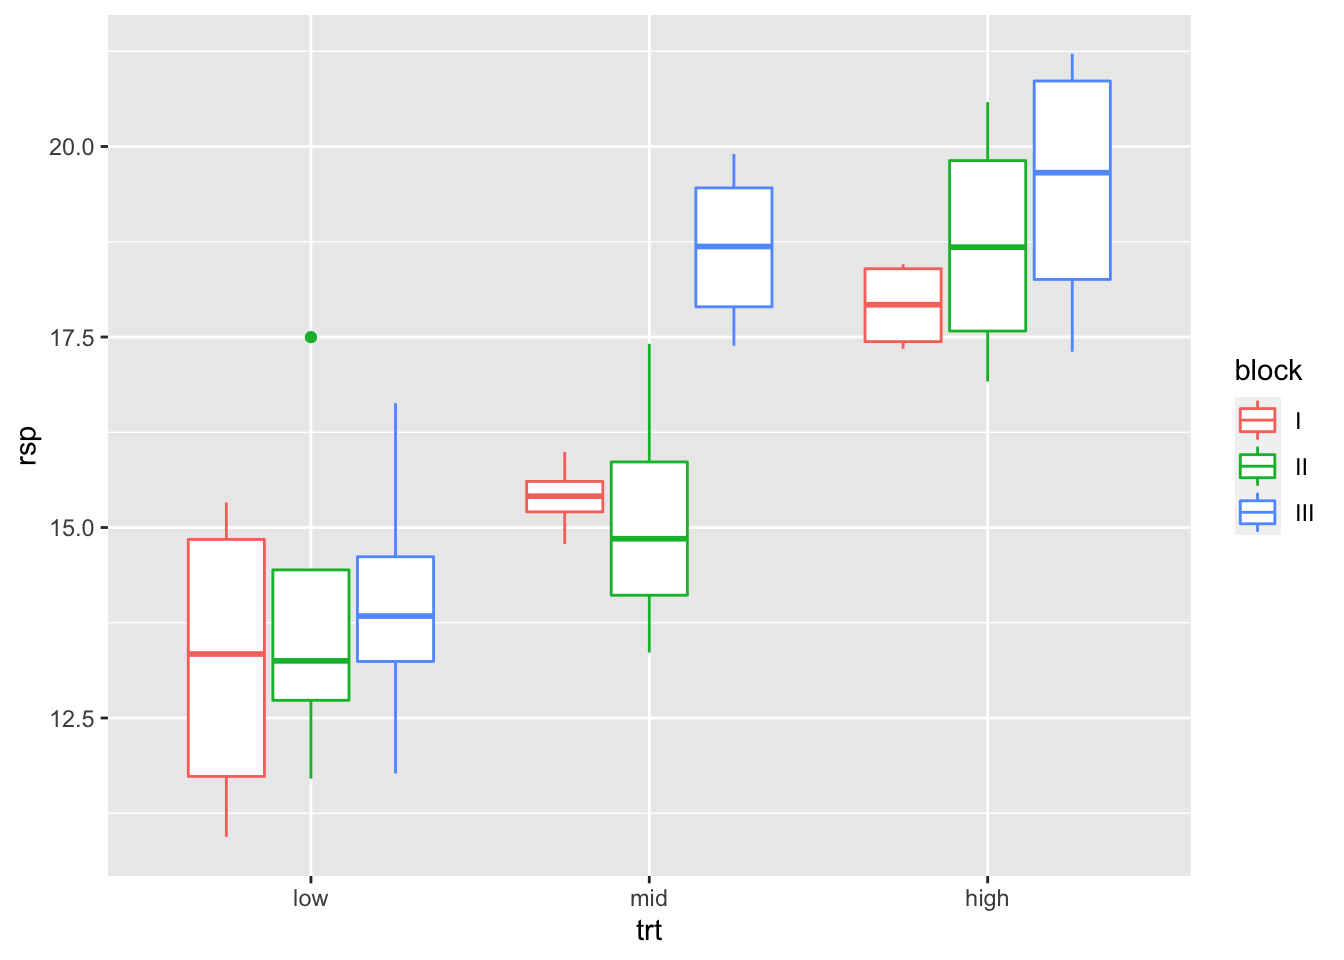
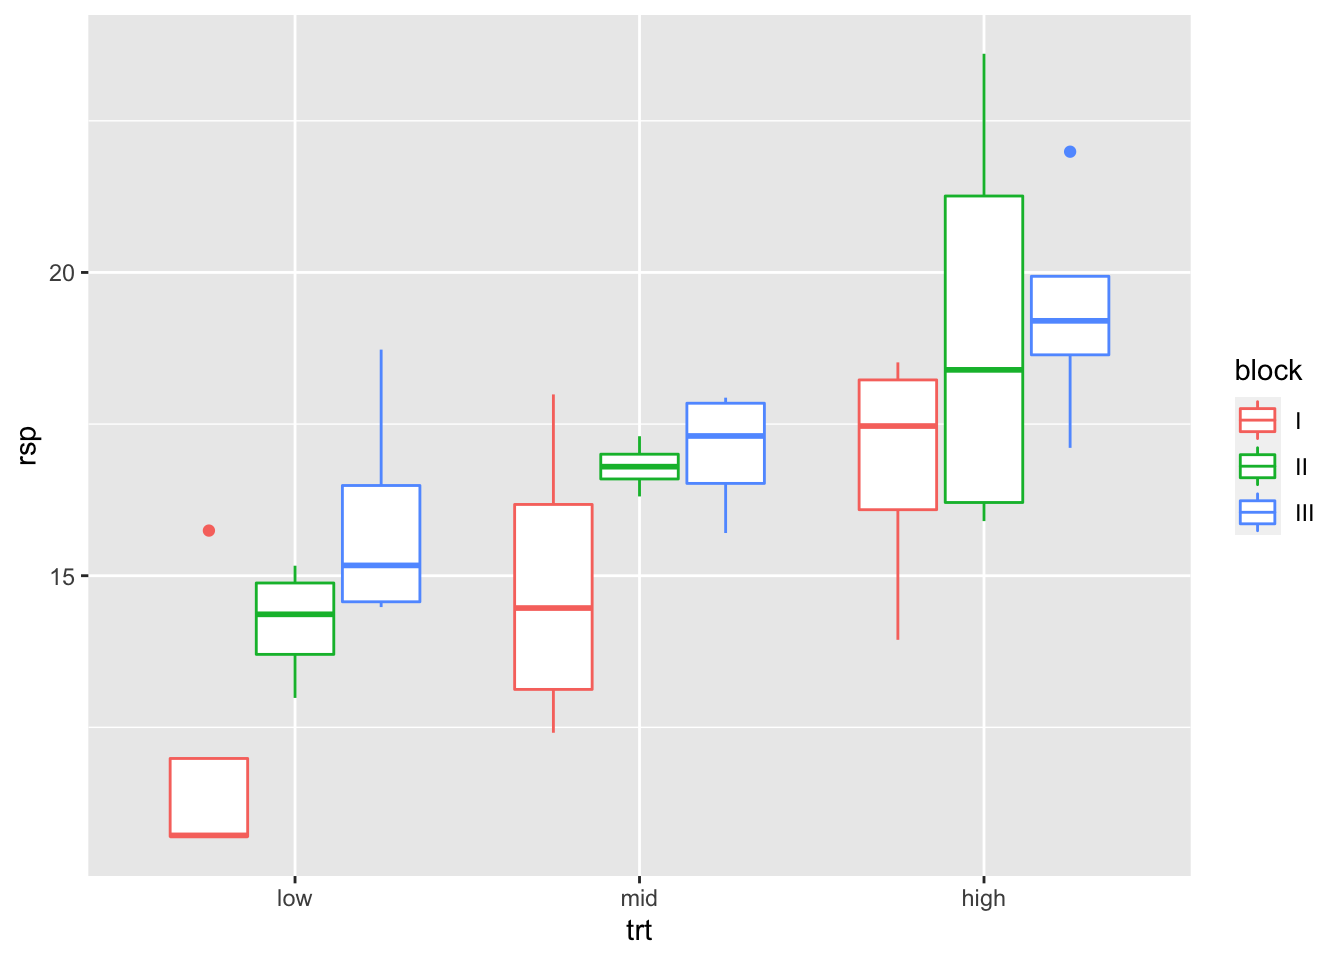
added information

diff --git a/docs/app-example-analysis.html b/docs/app-example-analysis.html
@@ -538,7 +538,7 @@ code span.wa { color: #60a0b0; font-weight: bold; font-style: italic; } /* Warni
 </header><div class="cell">
 
 </div>
-<p><em>Version vom October 31, 2022 um 18:43:56</em></p>
+<p><em>Version vom October 31, 2022 um 18:48:19</em></p>
 <section id="genutzte-r-pakete-für-das-kapitel" class="level2" data-number="A.1"><h2 data-number="A.1" class="anchored" data-anchor-id="genutzte-r-pakete-für-das-kapitel">
 <span class="header-section-number">A.1</span> Genutzte R Pakete für das Kapitel</h2>
 <p>Wir wollen folgende R Pakete in diesem Kapitel nutzen.</p>
@@ -578,7 +578,8 @@ code span.wa { color: #60a0b0; font-weight: bold; font-style: italic; } /* Warni
 <span>  <span class="fu">facet_wrap</span><span class="op">(</span><span class="op">~</span> <span class="va">temp</span>, ncol <span class="op">=</span> <span class="fl">2</span><span class="op">)</span> <span class="op">+</span> </span>
 <span>  <span class="fu">scale_fill_brewer</span><span class="op">(</span>palette <span class="op">=</span> <span class="st">"Spectral"</span>, direction <span class="op">=</span> <span class="op">-</span><span class="fl">1</span><span class="op">)</span> <span class="op">+</span></span>
 <span>  <span class="fu">scale_x_continuous</span><span class="op">(</span>breaks <span class="op">=</span> <span class="fl">1</span><span class="op">:</span><span class="fl">12</span><span class="op">)</span> <span class="op">+</span></span>
-<span>  <span class="fu">geom_vline</span><span class="op">(</span>xintercept <span class="op">=</span> <span class="fl">1</span><span class="op">:</span><span class="fl">12</span>, alpha <span class="op">=</span> <span class="fl">0.9</span>, linetype <span class="op">=</span> <span class="fl">2</span><span class="op">)</span></span></code><button title="In die Zwischenablage kopieren" class="code-copy-button"><i class="bi"></i></button></pre></div>
+<span>  <span class="fu">geom_vline</span><span class="op">(</span>xintercept <span class="op">=</span> <span class="fl">1</span><span class="op">:</span><span class="fl">12</span>, alpha <span class="op">=</span> <span class="fl">0.9</span>, linetype <span class="op">=</span> <span class="fl">2</span><span class="op">)</span> <span class="op">+</span></span>
+<span>  <span class="fu">geom_hline</span><span class="op">(</span>yintercept <span class="op">=</span> <span class="fu"><a href="https://rdrr.io/r/base/c.html">c</a></span><span class="op">(</span><span class="fl">5</span>, <span class="fl">10</span>, <span class="fl">15</span>, <span class="fl">20</span>, <span class="fl">25</span>, <span class="fl">30</span><span class="op">)</span>, alpha <span class="op">=</span> <span class="fl">0.9</span>, linetype <span class="op">=</span> <span class="fl">2</span><span class="op">)</span></span></code><button title="In die Zwischenablage kopieren" class="code-copy-button"><i class="bi"></i></button></pre></div>
 <div class="cell-output-display column-page">
 <div id="fig-weather" class="quarto-figure quarto-figure-center anchored">
 <figure class="figure"><p><img src="app-example-analysis_files/figure-html/fig-weather-1.png" class="img-fluid figure-img" width="864"></p>
@@ -666,217 +667,217 @@ X-squared = 13.8689, df = 3, p-value = 0.0030892</code></pre>
 <td style="text-align: center;">low</td>
 <td style="text-align: center;">I</td>
 <td style="text-align: center;">1</td>
-<td style="text-align: center;">14.68</td>
+<td style="text-align: center;">10.69</td>
 </tr>
 <tr class="even">
 <td style="text-align: center;">low</td>
 <td style="text-align: center;">I</td>
 <td style="text-align: center;">2</td>
-<td style="text-align: center;">12.00</td>
+<td style="text-align: center;">10.73</td>
 </tr>
 <tr class="odd">
 <td style="text-align: center;">low</td>
 <td style="text-align: center;">I</td>
 <td style="text-align: center;">3</td>
-<td style="text-align: center;">15.33</td>
+<td style="text-align: center;">15.74</td>
 </tr>
 <tr class="even">
 <td style="text-align: center;">low</td>
 <td style="text-align: center;">I</td>
 <td style="text-align: center;">4</td>
-<td style="text-align: center;">10.94</td>
+<td style="text-align: center;">10.70</td>
 </tr>
 <tr class="odd">
 <td style="text-align: center;">low</td>
 <td style="text-align: center;">II</td>
 <td style="text-align: center;">1</td>
-<td style="text-align: center;">13.07</td>
+<td style="text-align: center;">14.78</td>
 </tr>
 <tr class="even">
 <td style="text-align: center;">low</td>
 <td style="text-align: center;">II</td>
 <td style="text-align: center;">2</td>
-<td style="text-align: center;">17.50</td>
+<td style="text-align: center;">12.99</td>
 </tr>
 <tr class="odd">
 <td style="text-align: center;">low</td>
 <td style="text-align: center;">II</td>
-<td style="text-align: center;">3</td>
-<td style="text-align: center;">13.43</td>
-</tr>
-<tr class="even">
-<td style="text-align: center;">low</td>
-<td style="text-align: center;">II</td>
-<td style="text-align: center;">4</td>
-<td style="text-align: center;">11.71</td>
-</tr>
-<tr class="odd">
-<td style="text-align: center;">low</td>
-<td style="text-align: center;">III</td>
-<td style="text-align: center;">1</td>
-<td style="text-align: center;">11.77</td>
-</tr>
-<tr class="even">
-<td style="text-align: center;">low</td>
-<td style="text-align: center;">III</td>
-<td style="text-align: center;">2</td>
-<td style="text-align: center;">16.63</td>
-</tr>
-<tr class="odd">
-<td style="text-align: center;">low</td>
-<td style="text-align: center;">III</td>
 <td style="text-align: center;">3</td>
 <td style="text-align: center;">13.94</td>
 </tr>
 <tr class="even">
 <td style="text-align: center;">low</td>
+<td style="text-align: center;">II</td>
+<td style="text-align: center;">4</td>
+<td style="text-align: center;">15.16</td>
+</tr>
+<tr class="odd">
+<td style="text-align: center;">low</td>
+<td style="text-align: center;">III</td>
+<td style="text-align: center;">1</td>
+<td style="text-align: center;">15.74</td>
+</tr>
+<tr class="even">
+<td style="text-align: center;">low</td>
+<td style="text-align: center;">III</td>
+<td style="text-align: center;">2</td>
+<td style="text-align: center;">14.48</td>
+</tr>
+<tr class="odd">
+<td style="text-align: center;">low</td>
+<td style="text-align: center;">III</td>
+<td style="text-align: center;">3</td>
+<td style="text-align: center;">14.60</td>
+</tr>
+<tr class="even">
+<td style="text-align: center;">low</td>
 <td style="text-align: center;">III</td>
 <td style="text-align: center;">4</td>
-<td style="text-align: center;">13.73</td>
+<td style="text-align: center;">18.73</td>
 </tr>
 <tr class="odd">
 <td style="text-align: center;">mid</td>
 <td style="text-align: center;">I</td>
 <td style="text-align: center;">1</td>
-<td style="text-align: center;">14.78</td>
+<td style="text-align: center;">12.41</td>
 </tr>
 <tr class="even">
 <td style="text-align: center;">mid</td>
 <td style="text-align: center;">I</td>
 <td style="text-align: center;">2</td>
-<td style="text-align: center;">15.48</td>
+<td style="text-align: center;">17.99</td>
 </tr>
 <tr class="odd">
 <td style="text-align: center;">mid</td>
 <td style="text-align: center;">I</td>
 <td style="text-align: center;">3</td>
-<td style="text-align: center;">15.35</td>
+<td style="text-align: center;">15.57</td>
 </tr>
 <tr class="even">
 <td style="text-align: center;">mid</td>
 <td style="text-align: center;">I</td>
 <td style="text-align: center;">4</td>
-<td style="text-align: center;">15.99</td>
-</tr>
-<tr class="odd">
-<td style="text-align: center;">mid</td>
-<td style="text-align: center;">II</td>
-<td style="text-align: center;">1</td>
 <td style="text-align: center;">13.36</td>
 </tr>
+<tr class="odd">
+<td style="text-align: center;">mid</td>
+<td style="text-align: center;">II</td>
+<td style="text-align: center;">1</td>
+<td style="text-align: center;">17.30</td>
+</tr>
 <tr class="even">
 <td style="text-align: center;">mid</td>
 <td style="text-align: center;">II</td>
 <td style="text-align: center;">2</td>
-<td style="text-align: center;">15.34</td>
+<td style="text-align: center;">16.90</td>
 </tr>
 <tr class="odd">
 <td style="text-align: center;">mid</td>
 <td style="text-align: center;">II</td>
 <td style="text-align: center;">3</td>
-<td style="text-align: center;">17.41</td>
+<td style="text-align: center;">16.69</td>
 </tr>
 <tr class="even">
 <td style="text-align: center;">mid</td>
 <td style="text-align: center;">II</td>
 <td style="text-align: center;">4</td>
-<td style="text-align: center;">14.36</td>
+<td style="text-align: center;">16.31</td>
 </tr>
 <tr class="odd">
 <td style="text-align: center;">mid</td>
 <td style="text-align: center;">III</td>
 <td style="text-align: center;">1</td>
-<td style="text-align: center;">17.39</td>
+<td style="text-align: center;">16.79</td>
 </tr>
 <tr class="even">
 <td style="text-align: center;">mid</td>
 <td style="text-align: center;">III</td>
 <td style="text-align: center;">2</td>
-<td style="text-align: center;">19.90</td>
+<td style="text-align: center;">17.94</td>
 </tr>
 <tr class="odd">
 <td style="text-align: center;">mid</td>
 <td style="text-align: center;">III</td>
 <td style="text-align: center;">3</td>
-<td style="text-align: center;">18.07</td>
+<td style="text-align: center;">15.70</td>
 </tr>
 <tr class="even">
 <td style="text-align: center;">mid</td>
 <td style="text-align: center;">III</td>
 <td style="text-align: center;">4</td>
-<td style="text-align: center;">19.31</td>
+<td style="text-align: center;">17.81</td>
 </tr>
 <tr class="odd">
 <td style="text-align: center;">high</td>
 <td style="text-align: center;">I</td>
 <td style="text-align: center;">1</td>
-<td style="text-align: center;">17.35</td>
+<td style="text-align: center;">18.13</td>
 </tr>
 <tr class="even">
 <td style="text-align: center;">high</td>
 <td style="text-align: center;">I</td>
 <td style="text-align: center;">2</td>
-<td style="text-align: center;">17.47</td>
+<td style="text-align: center;">13.94</td>
 </tr>
 <tr class="odd">
 <td style="text-align: center;">high</td>
 <td style="text-align: center;">I</td>
 <td style="text-align: center;">3</td>
-<td style="text-align: center;">18.38</td>
+<td style="text-align: center;">16.80</td>
 </tr>
 <tr class="even">
 <td style="text-align: center;">high</td>
 <td style="text-align: center;">I</td>
 <td style="text-align: center;">4</td>
-<td style="text-align: center;">18.46</td>
+<td style="text-align: center;">18.52</td>
 </tr>
 <tr class="odd">
 <td style="text-align: center;">high</td>
 <td style="text-align: center;">II</td>
 <td style="text-align: center;">1</td>
-<td style="text-align: center;">17.80</td>
+<td style="text-align: center;">20.48</td>
 </tr>
 <tr class="even">
 <td style="text-align: center;">high</td>
 <td style="text-align: center;">II</td>
 <td style="text-align: center;">2</td>
-<td style="text-align: center;">16.92</td>
+<td style="text-align: center;">23.61</td>
 </tr>
 <tr class="odd">
 <td style="text-align: center;">high</td>
 <td style="text-align: center;">II</td>
 <td style="text-align: center;">3</td>
-<td style="text-align: center;">20.58</td>
+<td style="text-align: center;">15.90</td>
 </tr>
 <tr class="even">
 <td style="text-align: center;">high</td>
 <td style="text-align: center;">II</td>
 <td style="text-align: center;">4</td>
-<td style="text-align: center;">19.56</td>
+<td style="text-align: center;">16.31</td>
 </tr>
 <tr class="odd">
 <td style="text-align: center;">high</td>
 <td style="text-align: center;">III</td>
 <td style="text-align: center;">1</td>
-<td style="text-align: center;">20.74</td>
+<td style="text-align: center;">17.11</td>
 </tr>
 <tr class="even">
 <td style="text-align: center;">high</td>
 <td style="text-align: center;">III</td>
 <td style="text-align: center;">2</td>
-<td style="text-align: center;">17.31</td>
+<td style="text-align: center;">19.15</td>
 </tr>
 <tr class="odd">
 <td style="text-align: center;">high</td>
 <td style="text-align: center;">III</td>
 <td style="text-align: center;">3</td>
-<td style="text-align: center;">18.57</td>
+<td style="text-align: center;">21.99</td>
 </tr>
 <tr class="even">
 <td style="text-align: center;">high</td>
 <td style="text-align: center;">III</td>
 <td style="text-align: center;">4</td>
-<td style="text-align: center;">21.22</td>
+<td style="text-align: center;">19.25</td>
 </tr>
 </tbody>
 </table>
@@ -920,10 +921,10 @@ X-squared = 13.8689, df = 3, p-value = 0.0030892</code></pre>
 <pre><code>Analysis of Variance Table
 
 Response: rsp
-          Df   Sum Sq Mean Sq F value       Pr(&gt;F)    
-trt        2 148.3141 74.1571 25.1998 0.0000003173 ***
-block      2  23.1254 11.5627  3.9292     0.030136 *  
-Residuals 31  91.2257  2.9428                         
+          Df   Sum Sq Mean Sq  F value      Pr(&gt;F)    
+trt        2 116.5639 58.2820 14.46294 0.000036566 ***
+block      2  54.1021 27.0511  6.71285   0.0037825 ** 
+Residuals 31 124.9221  4.0297                         
 ---
 Signif. codes:  0 '***' 0.001 '**' 0.01 '*' 0.05 '.' 0.1 ' ' 1</code></pre>
 </div>
@@ -941,9 +942,9 @@ Signif. codes:  0 '***' 0.001 '**' 0.01 '*' 0.05 '.' 0.1 ' ' 1</code></pre>
 <pre><code># A tibble: 3 × 3
   contrast   estimate adj.p.value
   &lt;chr&gt;         &lt;dbl&gt;       &lt;dbl&gt;
-1 mid - low      2.67      0.0017
-2 high - low     4.97      0     
-3 high - mid     2.30      0.007 </code></pre>
+1 mid - low      2.21      0.0297
+2 high - low     4.41      0     
+3 high - mid     2.20      0.0301</code></pre>
 </div>
 </div>
 </section><section id="gruppenvergleich-mit-der-emmeans-paket" class="level3" data-number="A.4.5"><h3 data-number="A.4.5" class="anchored" data-anchor-id="gruppenvergleich-mit-der-emmeans-paket">
@@ -960,9 +961,9 @@ Signif. codes:  0 '***' 0.001 '**' 0.01 '*' 0.05 '.' 0.1 ' ' 1</code></pre>
 <pre><code># A tibble: 3 × 3
   contrast   estimate adj.p.value
   &lt;chr&gt;         &lt;dbl&gt;       &lt;dbl&gt;
-1 low - mid     -2.67      0.0017
-2 low - high    -4.97      0     
-3 mid - high    -2.30      0.007 </code></pre>
+1 low - mid     -2.21      0.0296
+2 low - high    -4.41      0     
+3 mid - high    -2.20      0.0301</code></pre>
 </div>
 </div>
 </section></section><section id="auswertung-von-boniturnoten" class="level2" data-number="A.5"><h2 data-number="A.5" class="anchored" data-anchor-id="auswertung-von-boniturnoten">
